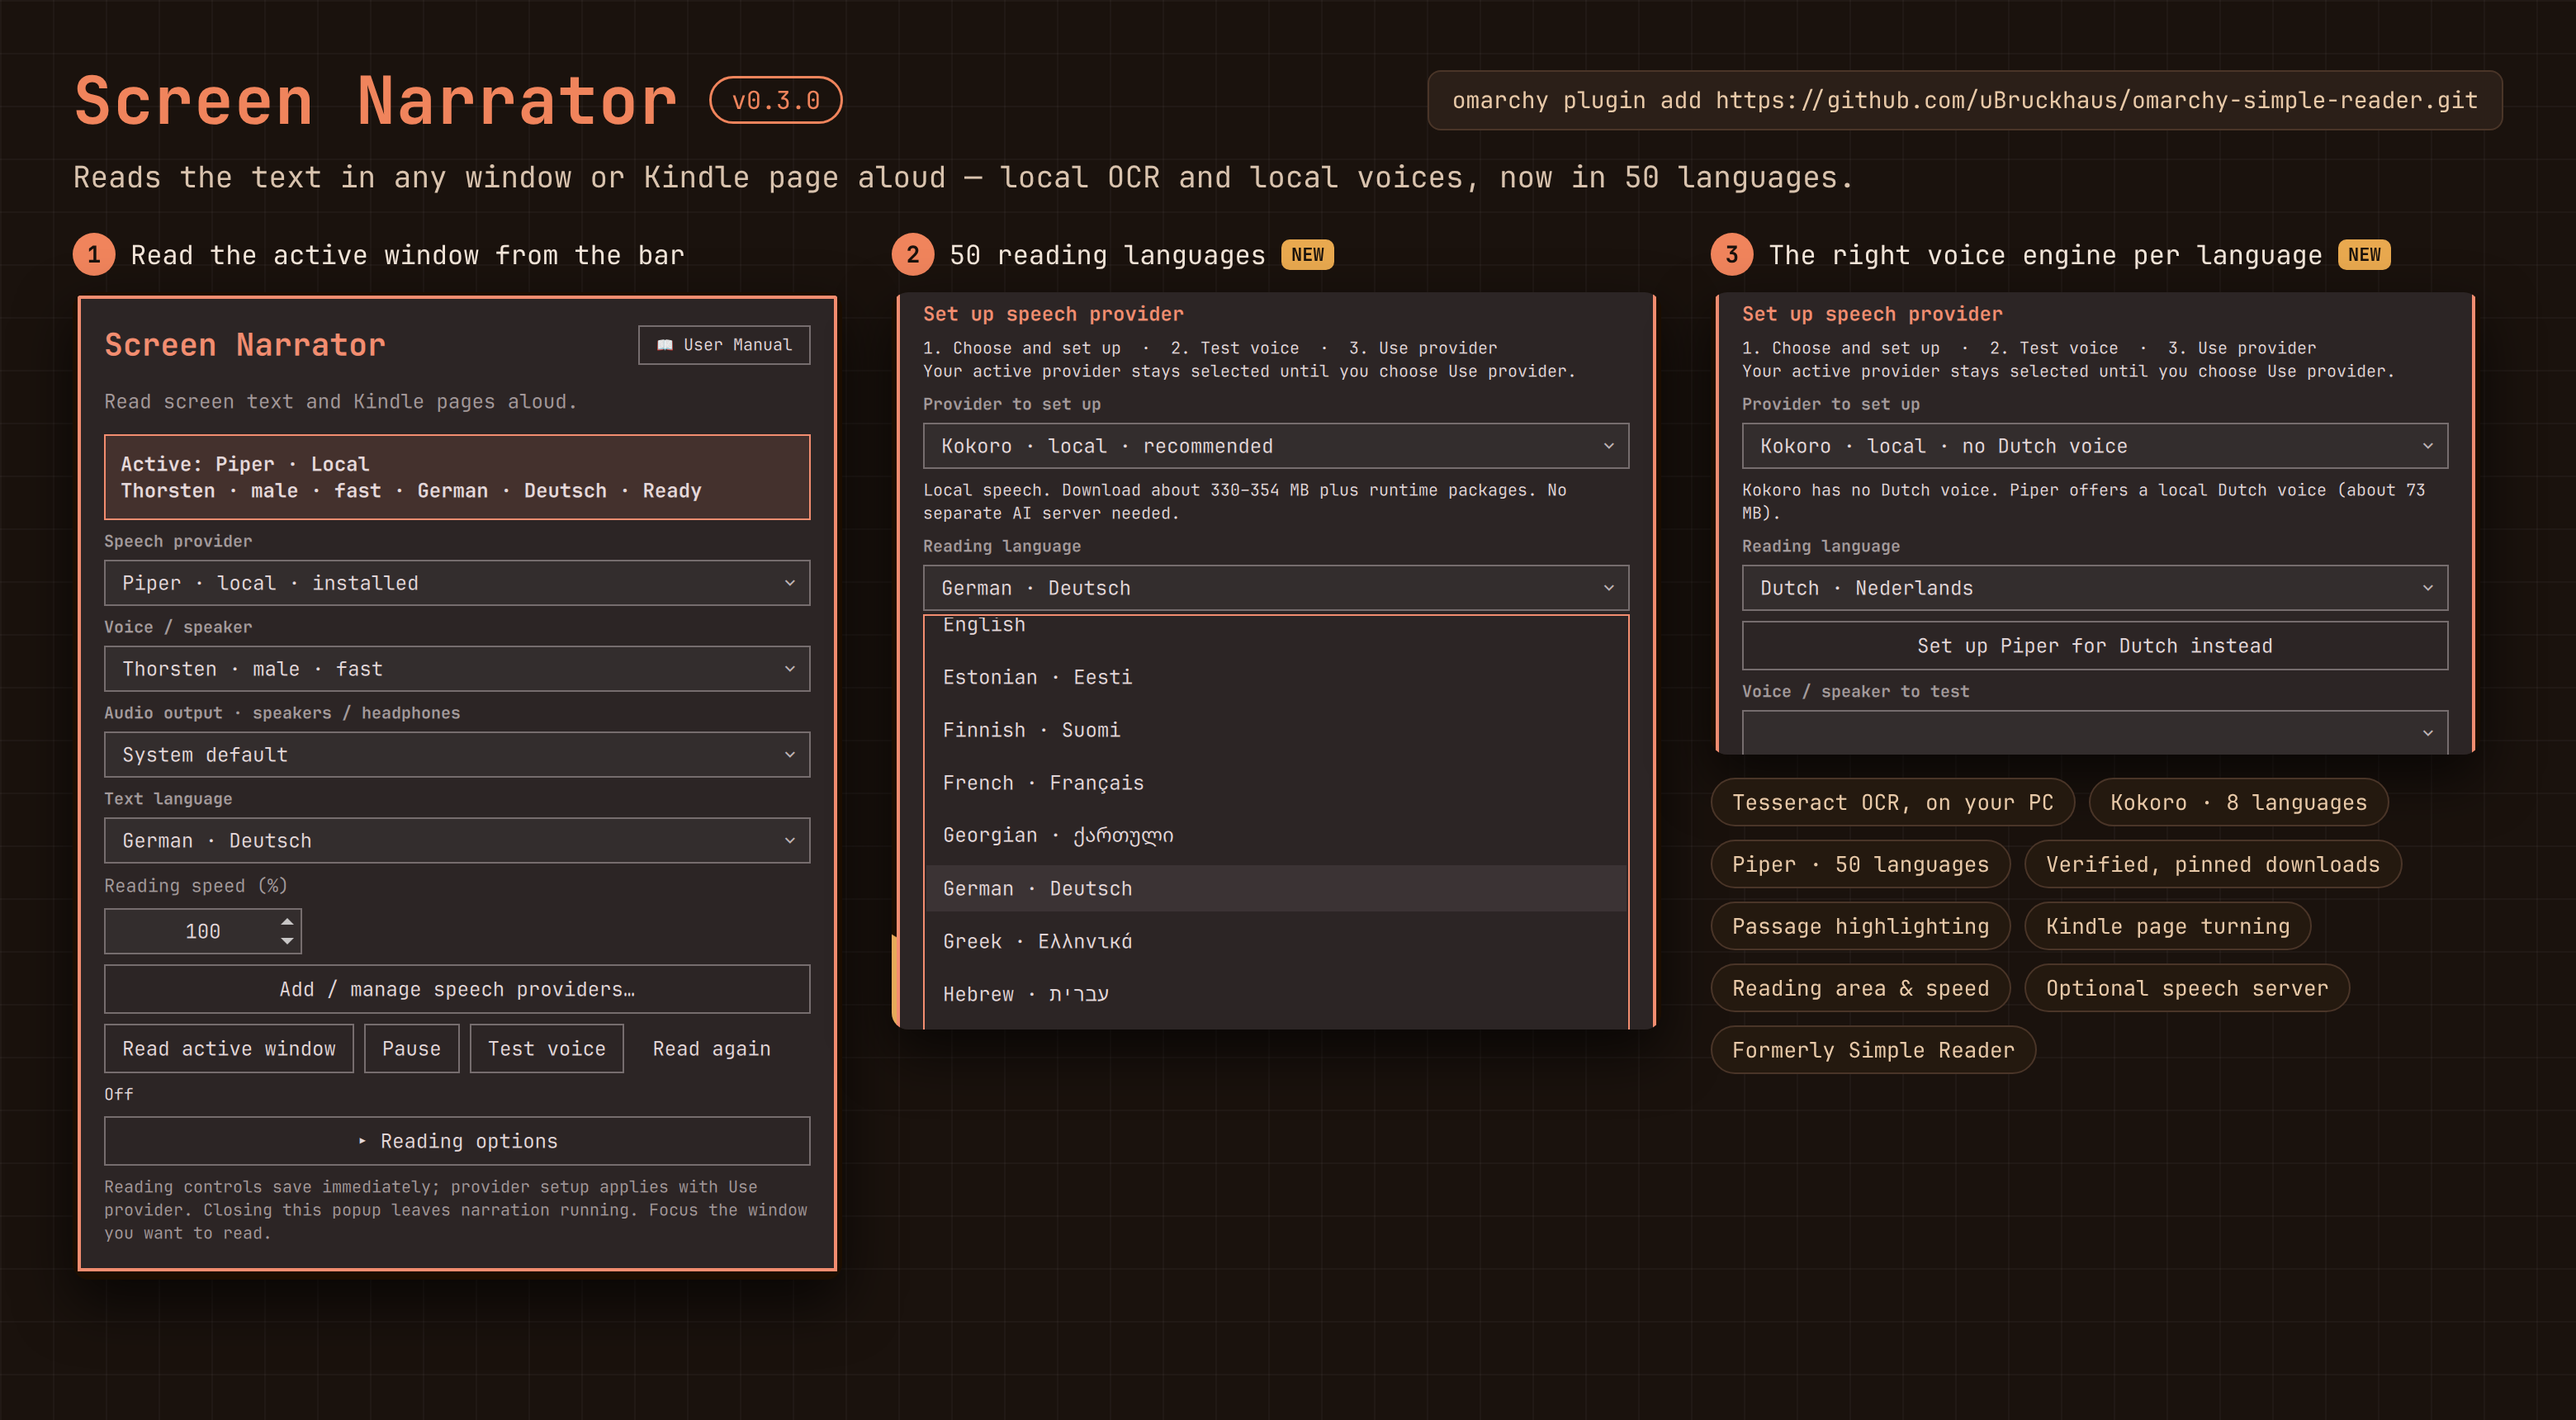
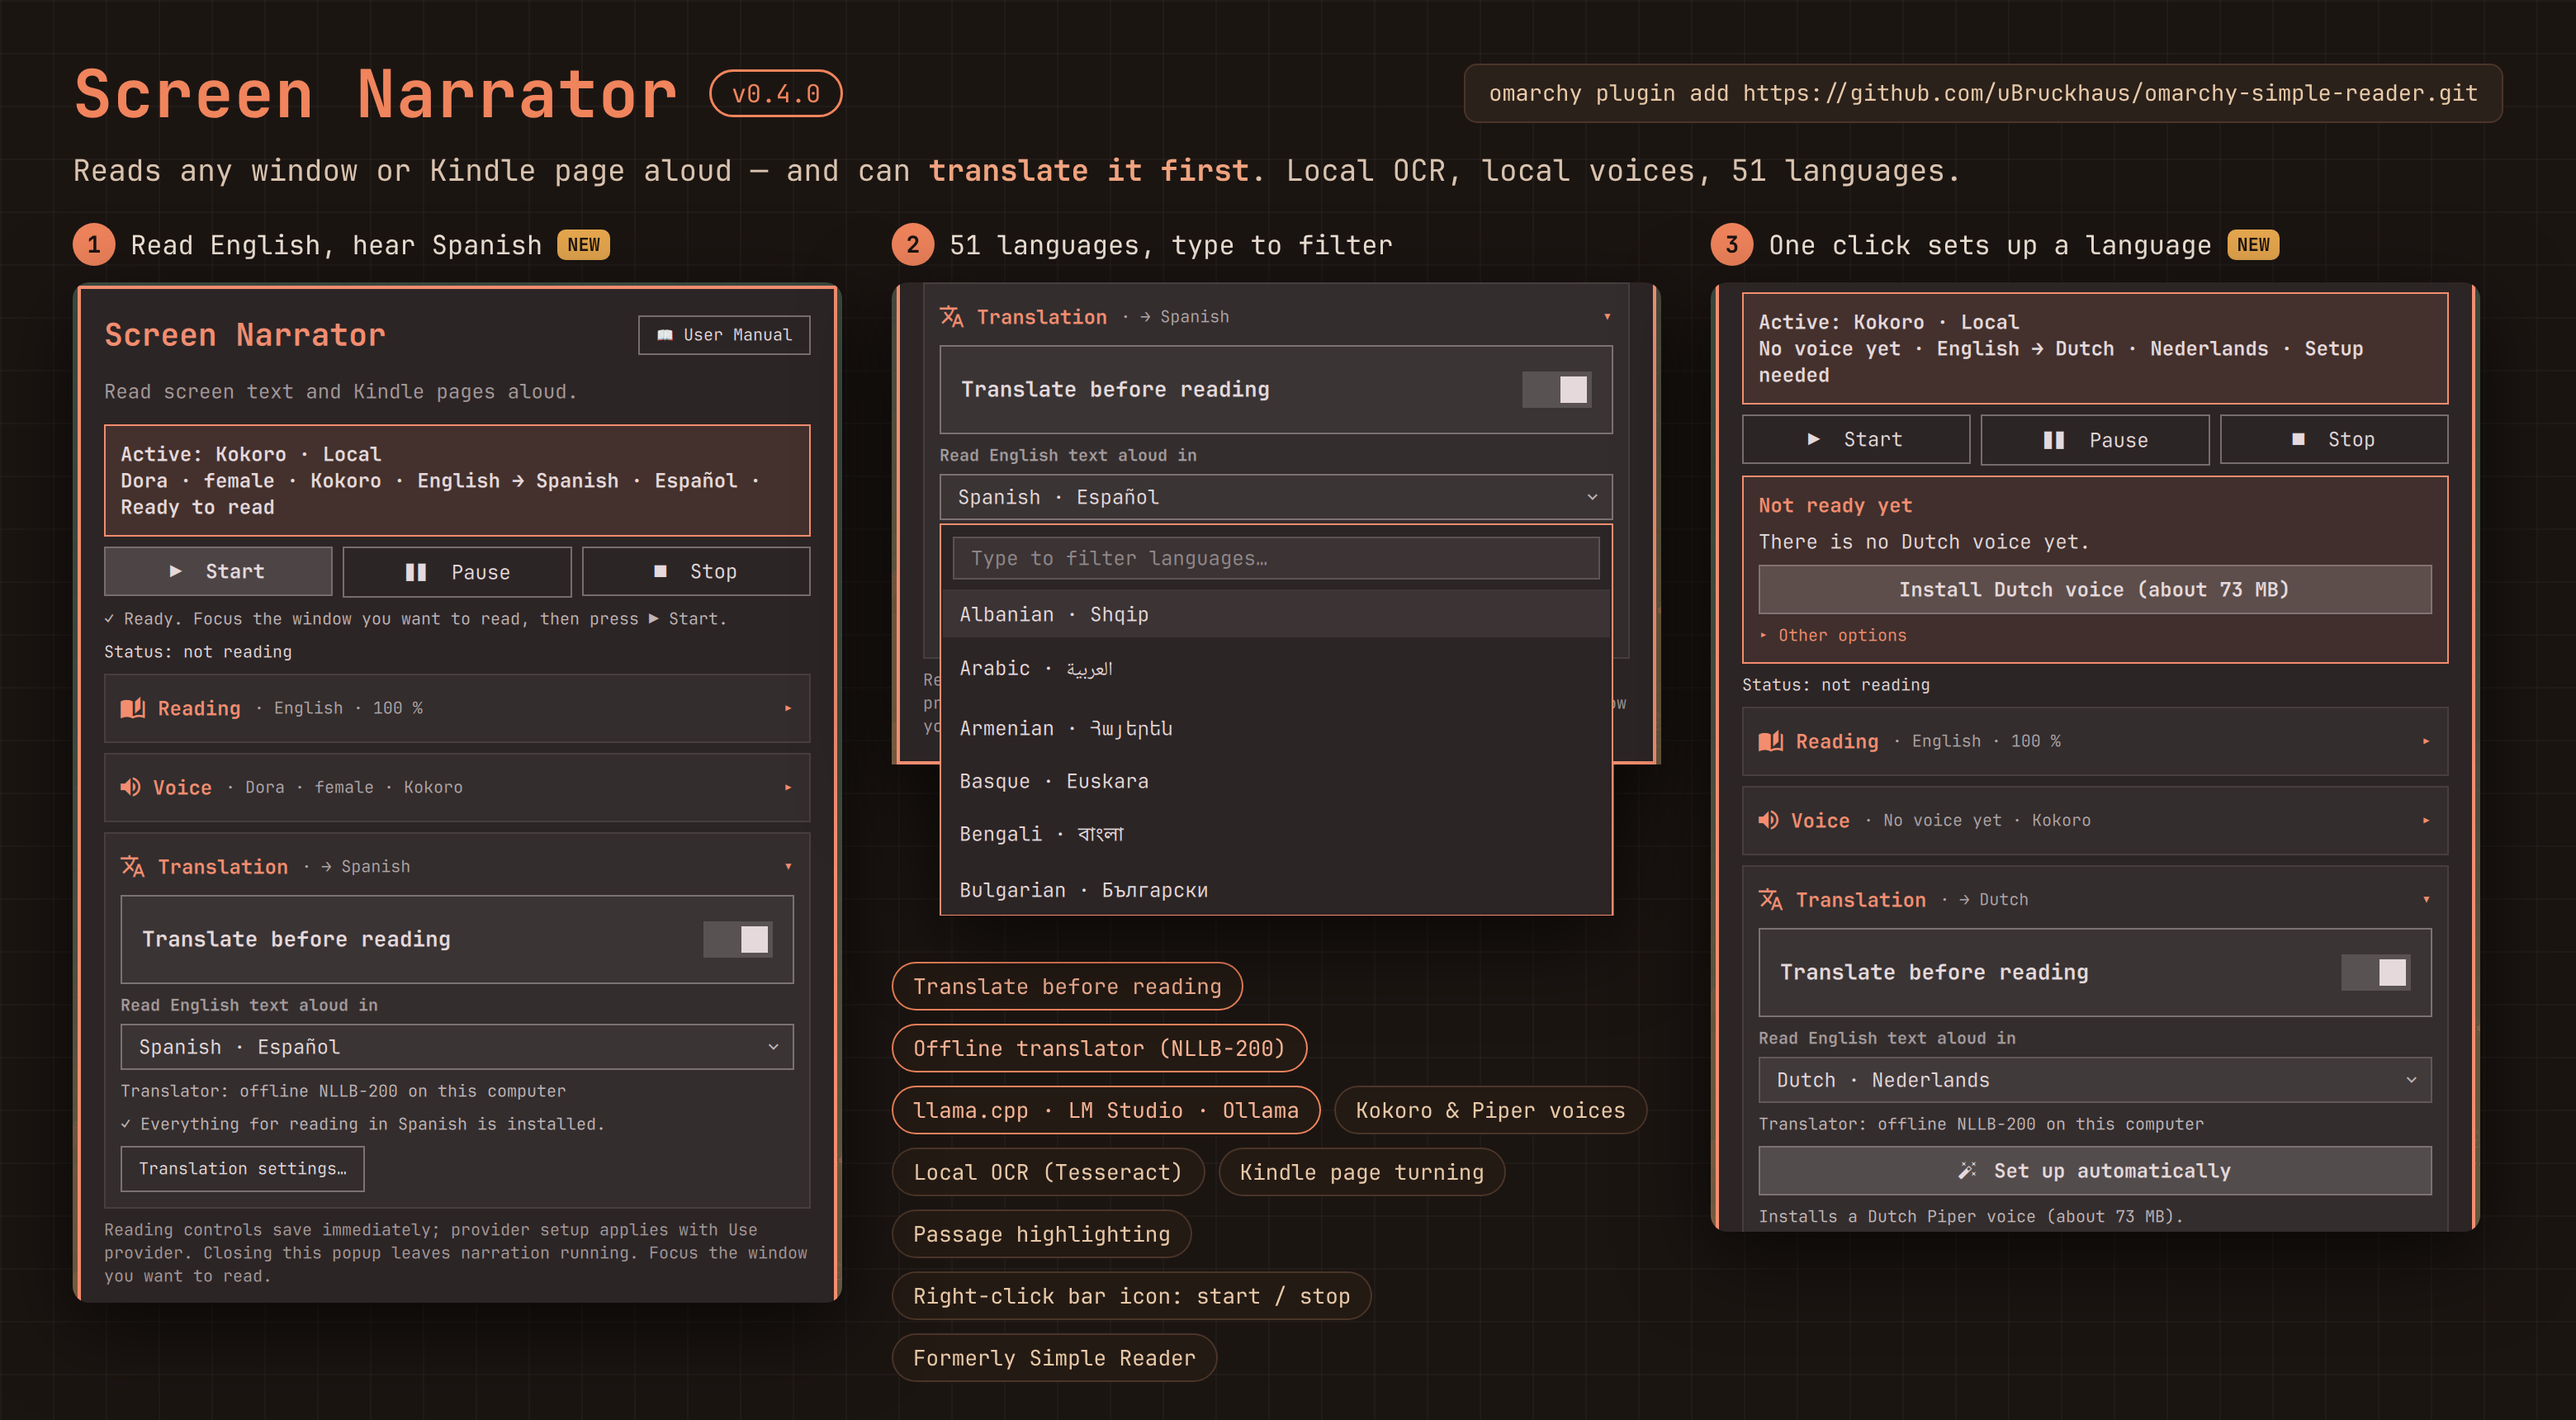
0.4.0 listing: translation-first description, new preview, setup capabilities in README

Changed region(s): [[0.0311, 0.0308, 0.9638, 0.986], [0.2487, 0.7087, 0.3109, 0.7395], [0.2487, 0.6471, 0.3109, 0.6779]]

diff --git a/README.md b/README.md
@@ -2,9 +2,9 @@
 
 *Formerly Simple Reader.* The plugin ID `ubruckhaus.simple-reader`, the `simple-reader` command and all data paths are unchanged.
 
-Read visible text aloud without leaving the Omarchy bar. Screen Narrator captures the active window with local OCR and narrates it with a selected voice. Its native popup includes voice, language, speed, pause, reading-area and Kindle page controls. The reader service is included; speech models are downloaded separately.
+Read any window or Kindle page aloud — and, if you like, **translate it first**. Screen Narrator recognizes the text of the active window with local OCR and speaks it with a local voice in 51 languages. Turn on **Translate before reading** to read, say, an English page and hear it in Spanish: translation runs offline with NLLB-200 or through your own llama.cpp, LM Studio or Ollama server. The reader service is included; voices and the translator are downloaded on request.
 
-Click the headphones bar icon for reading, voice, language, speed, Kindle and area controls. Settings save immediately. Closing the popup leaves narration running; Stop ends it. User Manual opens integrated guidance. Existing reader shortcuts remain available; installation does not replace any desktop shortcuts.
+Click the headphones bar icon for ▶ Start / ❚❚ Pause / ■ Stop and three collapsible groups: **Reading** (text language, speed, Kindle and area options), **Voice** (provider, voice, audio output) and **Translation** (off by default). Right-click the icon to start or stop reading directly. When something is missing, the popup names the one next step and a **Set up automatically** button installs it. Settings save immediately. Closing the popup leaves narration running; Stop ends it. User Manual opens integrated guidance. Existing reader shortcuts remain available; installation does not replace any desktop shortcuts.
 
 The bridge uses only a private local Unix socket and Python standard library. Native Omarchy components are under `native/` with the upstream license. Removing this widget does not remove the reader or its preferences.
 
@@ -44,7 +44,28 @@ performs the same guided installation (any two-letter code from the language lis
 Piper is chosen automatically when Kokoro has no voice for it). `--backend-only` installs or upgrades the backend without
 downloading or selecting a voice.
 
-## Remove
+## What setup installs and changes
+
+Nothing is installed when the plugin is added. Setup runs only when you press **Set up now**,
+**Set up automatically**, an install button, or `setup.sh`:
+
+- **System packages** (`pkexec pacman -S --needed`), only those missing from a fixed list: `grim`,
+  `slurp`, `imagemagick`, `tesseract`, `mpv`, `wtype`, `quickshell`, `hyprland`, `libpulse` and
+  `tesseract-data-<language>` for the chosen text language. Authorization is requested each time.
+- **User service** `~/.config/systemd/user/ocrvox.service` with the drop-in
+  `ocrvox.service.d/read-aloud-runtime.conf`; setup stops, reloads and starts only this unit
+  (`systemctl --user`). An existing unit not created by this plugin is left untouched.
+- **Private Python runtimes** under `~/.local/share/kindle-reader` (`venv`, `piper-runtime`) with pinned
+  packages, the `~/.local/bin/simple-reader` launcher and `~/.local/share/applications/simple-reader.desktop`.
+  Replaced files are backed up in `~/.local/share/kindle-reader/backups/`.
+- **Downloads**, all from pinned revisions and checked with SHA256 before use: Kokoro models (GitHub
+  release `model-files-v1.0`, Hugging Face `Godelaune/Kokoro-82M-ONNX-German-Martin`), Piper voices
+  (`rhasspy/piper-voices`) and, only if you choose it, the offline translator
+  (`OpenNMT/nllb-200-distilled-1.3B-ct2-int8`, CC-BY-NC 4.0, non-commercial use only).
+- **Network while reading**: none by default. Only a speech or translation server you configure is
+  contacted (HTTPS, or HTTP on this computer only); it receives the recognized text.
+
+
 
 Press **Stop** before removing the widget:
 
@@ -84,7 +105,7 @@ OCR stays local. Online speech sends the text being read to the selected provide
 
 ## Marketplace summary
 
-**Screen Narrator — visible text, spoken aloud.** Local OCR narration in 51 languages, with optional translation into any of them, with Kokoro and Piper voices, adjustable reading speed, passage highlighting, selected reading areas and Kindle page controls. Optional OpenAI-compatible online speech supports API keys or bearer tokens. A native Omarchy bar popup keeps controls together. Guided one-button local Kokoro setup; optional Piper, Qwen via llama.cpp, and compatible speech servers. No voice model or credential is bundled.
+**Screen Narrator — read any window aloud, in your language.** Local OCR and local voices (Kokoro, Piper) in 51 languages, with optional translation before reading: offline NLLB-200, or your own llama.cpp, LM Studio or Ollama server. One-click setup per language, collapsible Reading / Voice / Translation groups, passage highlighting, reading areas and automatic Kindle page turning. Optional OpenAI-compatible speech servers. No model or credential is bundled; nothing leaves your computer unless you choose a remote server.
 
 ## Development checks
 
